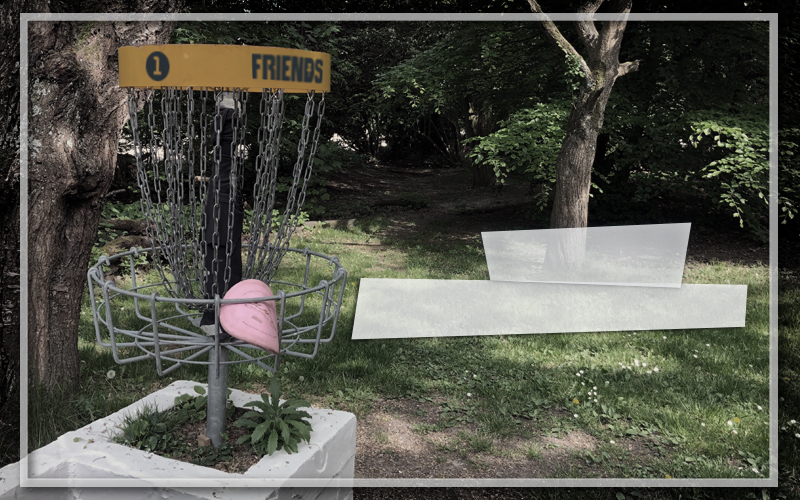
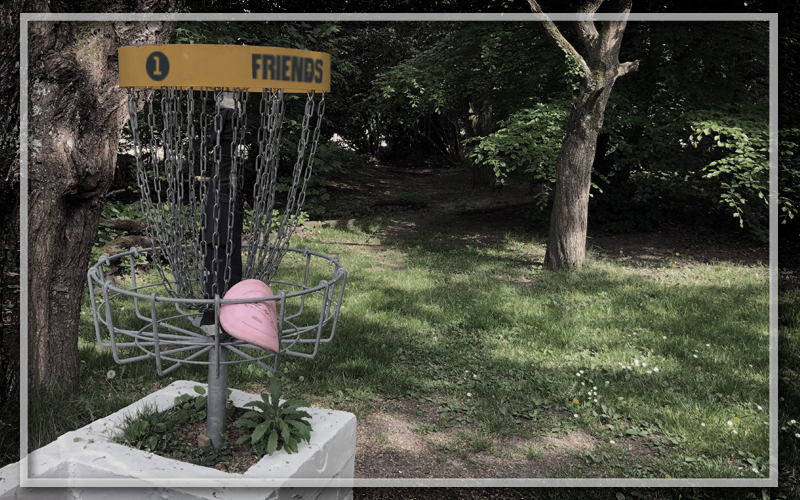
added 403 and changed all backgrounds

Changed region(s): [[0.4375, 0.42, 0.9375, 0.69]]

diff --git a/dgf_cms/templates/403.html b/dgf_cms/templates/403.html
@@ -2,7 +2,7 @@
 {% load static i18n %}
 
 {% block title %}
-    {% trans "500 - WTF Richard!?" %}
+    {% trans "403 - Foot fault!" %}
 {% endblock %}
 
 {% block css %}
@@ -10,10 +10,10 @@
 {% endblock %}
 
 {% block content %}
-	<img src="{% static '500.jpg' %}"/>
+	<img src="{% static '4xx.jpg' %}"/>
 	<div class="text">
-		<h1 class="title">{% trans "500 - WTF Richard!?" %}</h1>
-		<h2>{% trans "It seems that we have a problem. Please let us work on that." %}</h2>
+		<h1 class="title">{% trans "403 - Foot fault!" %}</h1>
+		<h2>{% trans "You are not allowed to see this. You received a penalty stroke." %}</h2>
 
 	</div>
 {% endblock content %}

diff --git a/dgf_cms/templates/404.html b/dgf_cms/templates/404.html
@@ -10,10 +10,10 @@
 {% endblock %}
 
 {% block content %}
-	<img src="{% static '404.jpg' %}"></img>
+	<img src="{% static '4xx.jpg' %}"/>
 	<div class="text">
 		<h1 class="title">{% trans "404 - Out of Bounds!" %}</h1>
-		<h2>{% trans "Page not found! Please proceed to the dropzone" %}</h2>
+		<h2>{% trans "Page not found! Please proceed to the dropzone." %}</h2>
 
 	</div>
 {% endblock content %}

diff --git a/dgf_cms/urls.py b/dgf_cms/urls.py
@@ -2,7 +2,6 @@
 from __future__ import absolute_import, print_function, unicode_literals
 
 from cms.sitemaps import CMSSitemap
-from dgf.handlers import server_error
 from django.conf import settings
 from django.conf.urls import include
 from django.conf.urls import url
@@ -13,6 +12,8 @@ from django.contrib.sitemaps.views import sitemap
 from django.contrib.staticfiles.urls import staticfiles_urlpatterns
 from django.views.generic import TemplateView
 from django.views.static import serve
+
+from dgf.handlers import server_error
 
 admin.autodiscover()
 
@@ -32,10 +33,11 @@ urlpatterns += i18n_patterns(
 # This is only needed when using runserver.
 if settings.DEBUG:
     urlpatterns = [
-        url(r'^404/$', TemplateView.as_view(template_name='404.html')),
-        url(r'^500/$', TemplateView.as_view(template_name='500.html')),
-        url(r'^media/(?P<path>.*)$', serve,
-            {'document_root': settings.MEDIA_ROOT, 'show_indexes': True}),
-        ] + staticfiles_urlpatterns() + urlpatterns
+                      url(r'^403/$', TemplateView.as_view(template_name='403.html')),
+                      url(r'^404/$', TemplateView.as_view(template_name='404.html')),
+                      url(r'^500/$', TemplateView.as_view(template_name='500.html')),
+                      url(r'^media/(?P<path>.*)$', serve,
+                          {'document_root': settings.MEDIA_ROOT, 'show_indexes': True}),
+                  ] + staticfiles_urlpatterns() + urlpatterns
 
 handler500 = server_error
